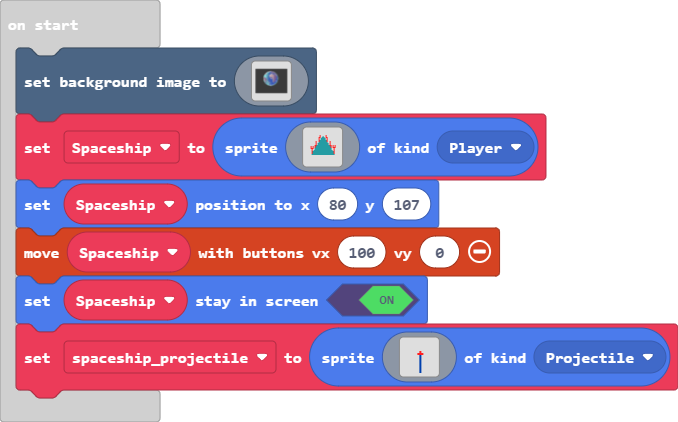
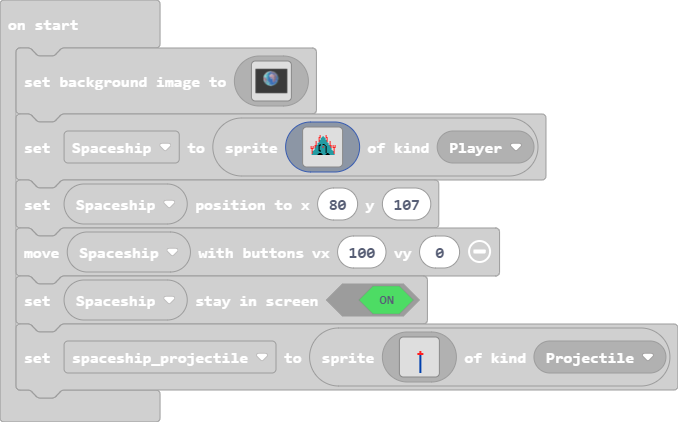
Update main.blocks, main.ts

diff --git a/main.ts b/main.ts
@@ -134,17 +134,17 @@ let Spaceship = sprites.create(img`
     .........2..266666662..2........
     .........2..666666666..2........
     .........2.66666666666.2........
-    .........2.66666666666.2........
-    ........22666666666666622.2.2...
-    ....2.2.26666666666666662.2.2...
-    ....2.2.26666666666666662.222...
-    ....222.66666666666666666..2....
-    .....2..66666666666666666..2....
-    .....2.6666666666666666666.2....
-    .....26666666666666666666662....
-    .....26666666666666666666662....
-    .....26666666666666666666662....
-    .....66666666666666666666666....
+    .........2.66f66ff6666.2........
+    ........2266ff6666f666622.2.2...
+    ....2.2.2666f666266f66662.2.2...
+    ....2.2.2666f666266f66662.222...
+    ....222.6666f666666f66666..2....
+    .....2..6666f666666f66666..2....
+    .....2.66666ff66666f666666.2....
+    .....26666666f66666f66666662....
+    .....26666666666666f66666662....
+    .....2666666fff66666ff666662....
+    .....666666fffff666ffff66666....
     ................................
     ................................
     ................................
